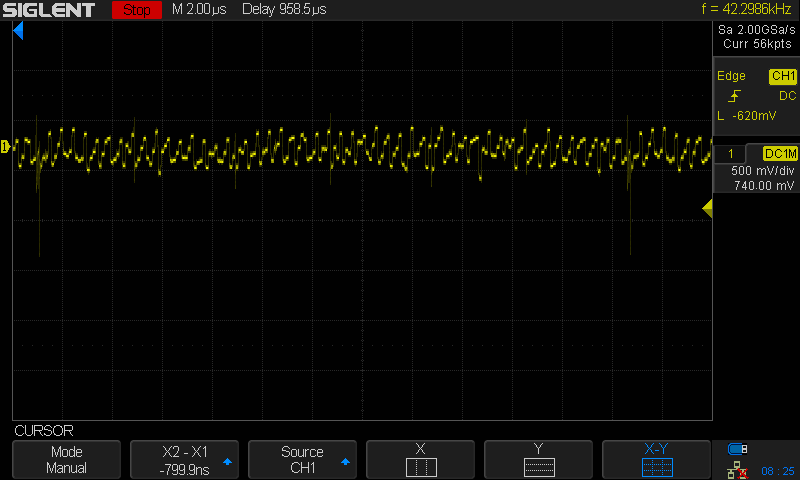
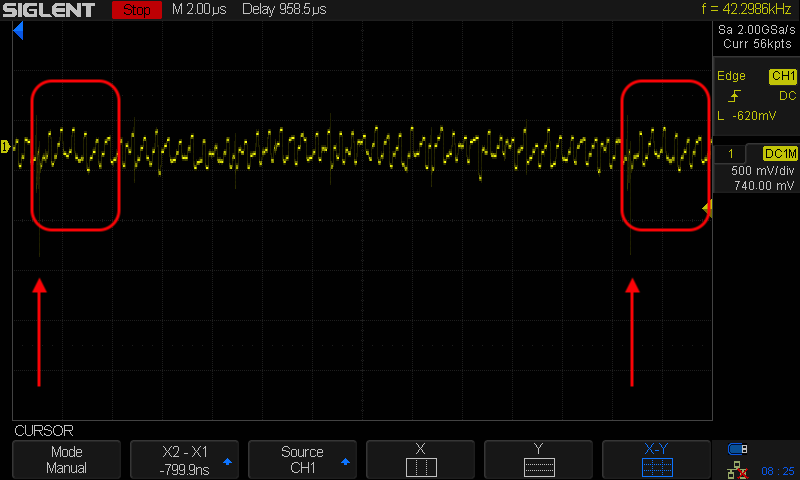
More measurements.

diff --git a/_posts/2025-05-04-TDS684B-CCD-Memory.md b/_posts/2025-05-04-TDS684B-CCD-Memory.md
@@ -207,11 +207,69 @@ And here it is, a nice 200 MHz signal:
 
 ![200 MHz seen on the input of the ADG286D chip](/assets/tds684b/13_200MHz_going_into_CCD.png)
 
+# A Closer Look at the Noise Issue
+
+After initially publishing this blog post, I had a discussion on Discord about the noise issue
+which made me do a couple more measurements.
+
+**Input connected to ground**
+
+Here's what the ADC input looks like when the input of the scope is connected to ground:
+
+![Input connected to ground - full burst](/assets/tds684b/20_input_to_gnd_full.png)
+
+2 major observations:
+
+* there's a certain amount of repetitiveness to it.
+* there are these major voltage spikes in between each repetition. 
+  They are very faint on the scope shot.
+
+Let's zoom in on that:
+
+![Input connected to ground - zoomed](/assets/tds684b/21_input_to_gnd_zoom.png)
+
+The spikes are still hard to see so I added the arrows, but look how the sample pattern repeats 
+after each spike! 
+
+The time delay between each spike is ~23.6 us. With a sample rate of 120ns, that converts into
+a repetitive pattern of ~195 samples.
+
+I don't know why a pattern of 195 samples exists, but it's clear that each of those 195 locations
+have a fixed voltage offset. If the scope measures those offsets during calibration, it can
+subract them during measurement and get a clean signal out.
+
+**50 kHz square wave**
+
+Next I applied a 50kHz square wave to the input. This frequency was chosen so that for the selected
+sample rate, a single period would cover the 2ms sampling duration.
+
+![Square wave - full burst](/assets/tds684b/23_square_wave_full.png)
+
+2 more observations:
+
+* the micro-repetitiveness is still there, irrespective of the voltage offset. That means that
+  subtracting the noise should be fine for different voltage inputs.
+* We don't see a clean square wave outline. It looks like there's some kind of address interleaving
+  going one.
+
+**50kHz sawtooth wave**
+
+We can see the interleaving even better when applying a sawtooth wavefrom that covers one burst:
+
+![Sawtooth wave - full burst](/assets/tds684b/26_sawtooth_full.png)
+
+Instead of a clean break from high-to-low somewhere in the middle, there is a transition period
+where you get both high and low values. This confirms that some kind of interleaving is happening.
+
 # Conclusion
 
-The TDS684B captures input signals at high speed in an analog memory and digitizes them at 8 MHz.
-The single-ended input to the ADC is very noisy yet it looks clean when displayed on the CRT of the
-scope. The number of samples digitized is always the same, irrespective of the settings in the
+* The TDS684B captures input signals at high speed in an analog memory and digitizes them at 8 MHz.
+* The single-ended input to the ADC is noisy yet the signal looks clean when displayed on the CRT of the
+  scope, likely because the noise pattern is repetitive and predictable. 
+* In addition to noise, there's also an interleaving pattern during the reading out of the analog FIFO 
+  contents. 
+* The number of samples digitized is always the same, irrespective of the settings in the
 horizontal acquisition menu.
 
+*(Not written by ChatGPT, I just like to use bullet points...)*
 
